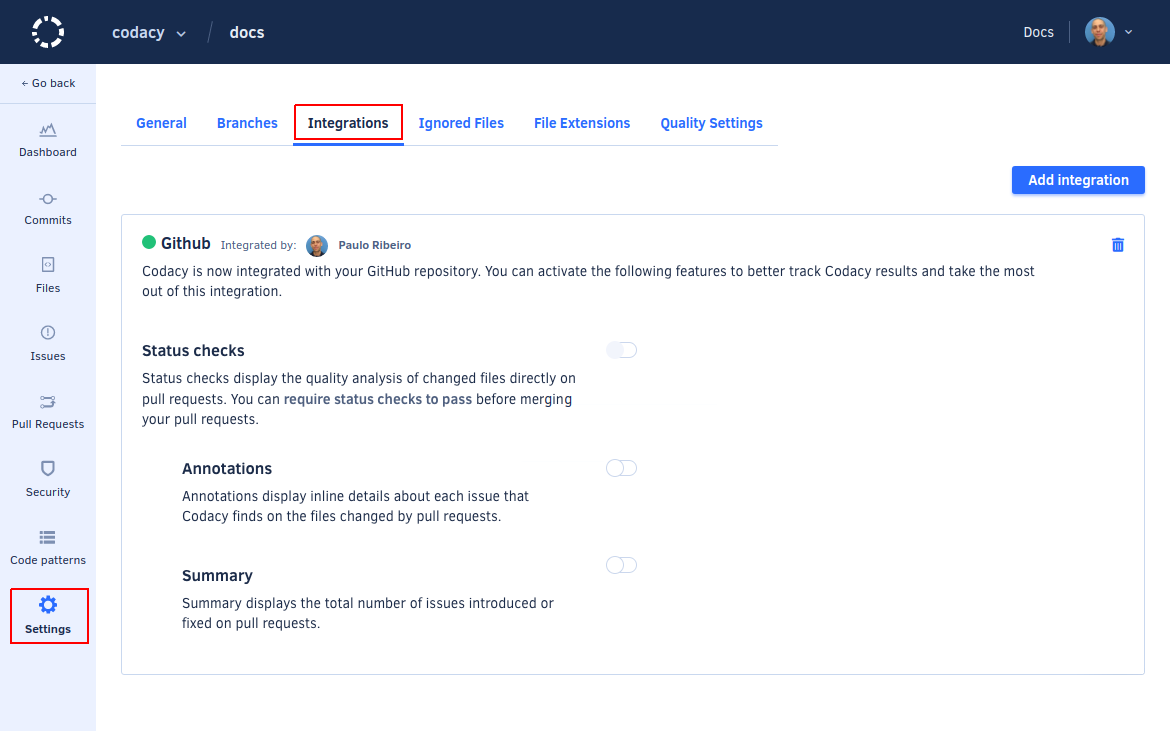
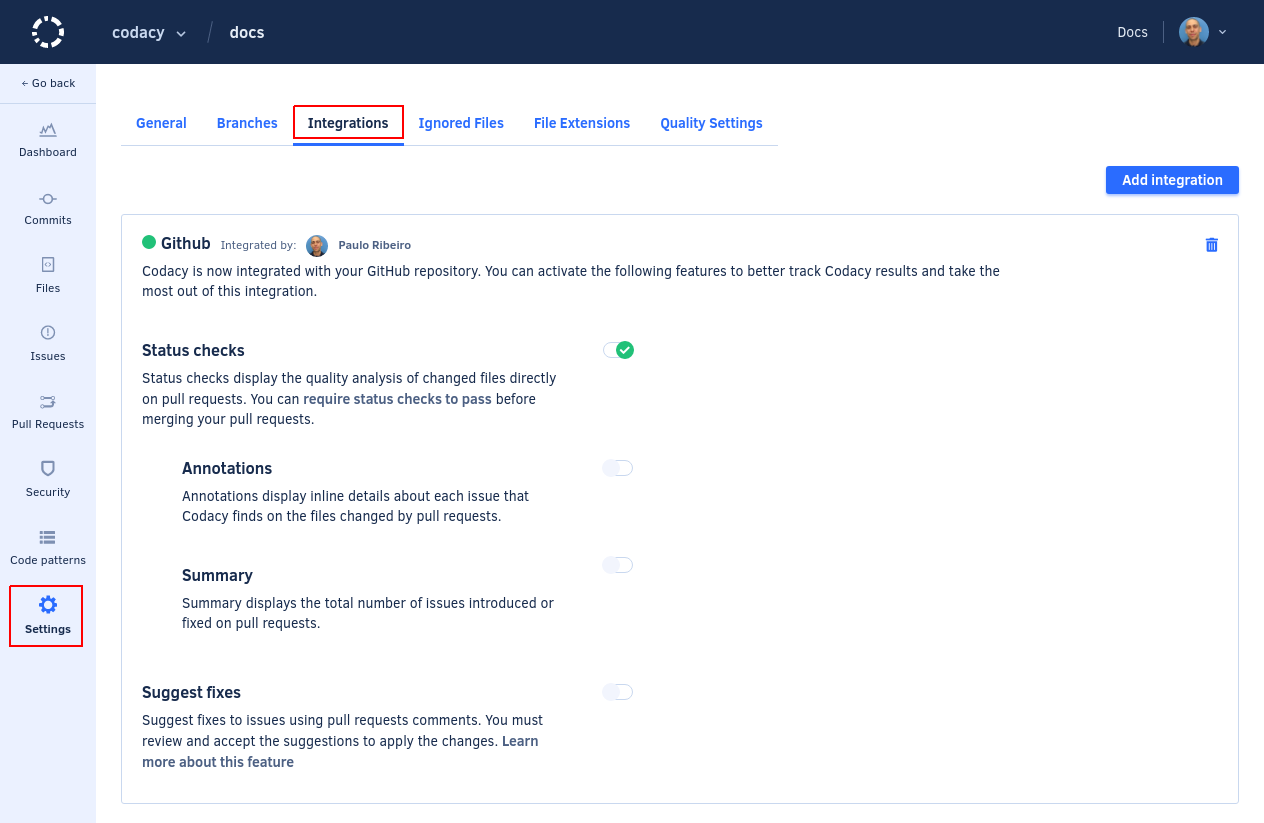
feature: Add Suggest fixes option in GitHub integration CY-3583 (#442)
* feature: Add Suggest fixes option in GitHub integration

* feature: Add anchor link for Suggest fixes

* wip: Add TODO as reminder to update main screenshot

* Update docs/repositories-configure/integrations/github-integration.md

* wip: Add placeholder for screenshot of comment with suggestion

* edit: Reword Suggest fixes limitations

Include plans to support more tools and mention GitHub limitation
that prevents Codacy from being the author of the comments with
suggestions.

* clean: Remove reference to languages supported by ESLint

* feature: Link to GitHub documentation on how to apply suggestions

* feature: Update GitHub integration configuration UI

* feature: Add screenshot of example suggested fix

* feature: Add link to list of rules from ESLint

* feature: Mention suggest features for ESLint on supported tools list

* style: Use table column to enumerate tools supporting Suggest fixes

diff --git a/docs/getting-started/supported-languages-and-tools.md b/docs/getting-started/supported-languages-and-tools.md
@@ -22,6 +22,7 @@ The table below lists all programming languages currently supported by Codacy an
     <tr>
       <th>Language</th>
       <th>Static Analysis</th>
+      <th><a style="color: white;" href="#suggest-fixes">Suggest fixes</a></th>
       <th>Duplication</th>
       <th>Complexity</th>
     </tr>
@@ -30,6 +31,7 @@ The table below lists all programming languages currently supported by Codacy an
     <tr>
       <td>Apex</td>
       <td><a href="https://pmd.github.io/">PMD</a></td>
+      <td></td>
       <td>-</td>
       <td>-</td>
     </tr>
@@ -38,12 +40,14 @@ The table below lists all programming languages currently supported by Codacy an
       <td><a href="https://clang.llvm.org/extra/clang-tidy/">Clang-Tidy</a><a href="#client-side"><sup>*</sup></a>,
           <a href="http://cppcheck.sourceforge.net/">Cppcheck</a>,
           <a href="https://dwheeler.com/flawfinder/">Flawfinder</a></td>
+      <td></td>
       <td><a href="https://pmd.github.io/pmd/pmd_userdocs_cpd.html">PMD CPD</a></td>
       <td>-</td>
     </tr>
     <tr>
       <td>C#</td>
-      <td><a href="https://github.com/SonarSource/sonar-dotnet">SonarC#</a></td>
+      <td><a href="https://github.com/SonarSource/sonar-dotnet">Sonar C#</a></td>
+      <td></td>
       <td><a href="https://pmd.github.io/pmd/pmd_userdocs_cpd.html">PMD CPD</a></td>
       <td><a href="https://github.com/SonarSource/sonar-dotnet">SonarC#</a></td>
     </tr>
@@ -52,18 +56,21 @@ The table below lists all programming languages currently supported by Codacy an
       <td><a href="https://clang.llvm.org/extra/clang-tidy/">Clang-Tidy</a><a href="#client-side"><sup>*</sup></a>,
           <a href="http://cppcheck.sourceforge.net/">Cppcheck</a>,
           <a href="https://dwheeler.com/flawfinder/">Flawfinder</a></td>
+      <td></td>
       <td><a href="https://pmd.github.io/pmd/pmd_userdocs_cpd.html">PMD CPD</a></td>
       <td>-</td>
     </tr>
     <tr>
       <td>CoffeeScript</td>
       <td><a href="http://www.coffeelint.org/">Coffeelint</a></td>
+      <td></td>
       <td>-</td>
       <td>-</td>
     </tr>
     <tr>
       <td>Crystal</td>
       <td><a href="https://github.com/crystal-ameba/ameba">Ameba</a></td>
+      <td></td>
       <td>-</td>
       <td>-</td>
     </tr>
@@ -71,18 +78,21 @@ The table below lists all programming languages currently supported by Codacy an
       <td>CSS</td>
       <td><a href="http://csslint.net/">CSSLint</a>,
           <a href="https://stylelint.io/">Stylelint</a></td>
+      <td></td>
       <td>-</td>
       <td>-</td>
     </tr>
     <tr>
       <td>Dockerfile</td>
       <td><a href="https://github.com/hadolint/hadolint">Hadolint</a></td>
+      <td></td>
       <td>-</td>
       <td>-</td>
     </tr>
     <tr>
       <td>Elixir</td>
       <td><a href="https://github.com/rrrene/credo">Credo</a></td>
+      <td></td>
       <td>-</td>
       <td>-</td>
     </tr>
@@ -92,14 +102,15 @@ The table below lists all programming languages currently supported by Codacy an
           <a href="https://github.com/tsenart/deadcode">deadcode</a><a href="#client-side"><sup>*</sup></a>,
           <a href="https://github.com/securego/gosec">Gosec</a><a href="#client-side"><sup>*</sup></a>,
           <a href="https://github.com/mgechev/revive">Revive</a>,
-          <a href="https://staticcheck.io/">Staticcheck</a><a href="#client-side"><sup>*</sup></a>
-      </td>
+          <a href="https://staticcheck.io/">Staticcheck</a><a href="#client-side"><sup>*</sup></a></td>
+      <td></td>
       <td><a href="https://pmd.github.io/pmd/pmd_userdocs_cpd.html">PMD CPD</a></td>
       <td><a href="https://github.com/fzipp/gocyclo">Gocyclo</a></td>
     </tr>
     <tr>
       <td>Groovy</td>
       <td><a href="https://codenarc.github.io/CodeNarc/">CodeNarc</a></td>
+      <td></td>
       <td>-</td>
       <td>-</td>
     </tr>
@@ -108,6 +119,7 @@ The table below lists all programming languages currently supported by Codacy an
       <td><a href="https://checkstyle.sourceforge.io/">Checkstyle</a>,
           <a href="https://pmd.github.io/">PMD</a>,
           <a href="https://spotbugs.github.io/">SpotBugs</a><a href="#client-side"><sup>*</sup></a></td>
+      <td></td>
       <td><a href="https://pmd.github.io/pmd/pmd_userdocs_cpd.html">PMD CPD</a></td>
       <td><a href="https://pmd.github.io/">PMD</a></td>
     </tr>
@@ -116,42 +128,49 @@ The table below lists all programming languages currently supported by Codacy an
       <td><a href="https://eslint.org/">ESLint</a>,
           <a href="https://jshint.com/">JSHint</a>,
           <a href="https://pmd.github.io/">PMD</a></td>
+      <td><a href="https://eslint.org/docs/rules/">ESLint</a> <a href="#suggest-fixes">🔧</a></td>
       <td><a href="https://pmd.github.io/pmd/pmd_userdocs_cpd.html">PMD CPD</a></td>
       <td><a href="https://eslint.org/">ESLint</a></td>
     </tr>
     <tr>
       <td>JSON</td>
       <td><a href="https://github.com/codacy/codacy-jackson-linter">Jackson Linter</a></td>
+      <td></td>
       <td>-</td>
       <td>-</td>
     </tr>
     <tr>
       <td>JSP</td>
       <td><a href="https://pmd.github.io/">PMD</a></td>
+      <td></td>
       <td>-</td>
       <td>-</td>
     </tr>
     <tr>
       <td>Kotlin</td>
       <td><a href="https://github.com/detekt/detekt">Detekt</a></td>
+      <td></td>
       <td><a href="https://github.com/kucherenko/jscpd">jscpd</a></td>
       <td><a href="https://github.com/detekt/detekt">Detekt</a></td>
     </tr>
     <tr>
       <td>Less</td>
       <td><a href="https://stylelint.io/">Stylelint</a></td>
+      <td></td>
       <td>-</td>
       <td>-</td>
     </tr>
     <tr>
       <td>Markdown</td>
       <td><a href="https://github.com/remarkjs/remark-lint">RemarkLint</a></td>
+      <td></td>
       <td>-</td>
       <td>-</td>
     </tr>
     <tr>
       <td>Objective-C</td>
       <td><a href="http://fauxpasapp.com/">Faux Pas</a><a href="#client-side"><sup>*</sup></a></td>
+      <td></td>
       <td>-</td>
       <td>-</td>
     </tr>
@@ -159,24 +178,28 @@ The table below lists all programming languages currently supported by Codacy an
       <td>PHP</td>
       <td><a href="https://github.com/squizlabs/PHP_CodeSniffer">PHP Code Sniffer</a>,
           <a href="https://phpmd.org/">PHP Mess Detector</a></td>
+      <td></td>
       <td><a href="https://github.com/sebastianbergmann/phpcpd">PHPCPD</a></td>
       <td><a href="https://github.com/pdepend/pdepend">PHP Depend</a></td>
     </tr>
     <tr>
       <td>PL/SQL</td>
       <td><a href="https://pmd.github.io/">PMD</a></td>
+      <td></td>
       <td>-</td>
       <td>-</td>
     </tr>
     <tr>
       <td>PostgreSQL</td>
       <td><a href="https://github.com/purcell/sqlint">SQLint</a></td>
+      <td></td>
       <td>-</td>
       <td>-</td>
     </tr>
     <tr>
       <td>PowerShell</td>
       <td><a href="https://github.com/PowerShell/PSScriptAnalyzer">PSScriptAnalyser</a></td>
+      <td></td>
       <td>-</td>
       <td>-</td>
     </tr>
@@ -186,6 +209,7 @@ The table below lists all programming languages currently supported by Codacy an
       <td><a href="https://github.com/PyCQA/bandit">Bandit</a>,
           <a href="https://github.com/landscapeio/prospector2">Prospector</a>,
           <a href="https://www.pylint.org/">Pylint</a></td>
+      <td></td>
       <td><a href="https://pmd.github.io/pmd/pmd_userdocs_cpd.html">PMD CPD</a></td>
       <td><a href="https://github.com/rubik/radon">Radon</a></td>
     </tr>
@@ -195,12 +219,14 @@ The table below lists all programming languages currently supported by Codacy an
       <td><a href="https://brakemanscanner.org/">Brakeman</a>,
           <a href="https://github.com/rubysec/bundler-audit">Bundler Audit</a>,
           <a href="https://github.com/rubocop-hq/rubocop">Rubocop</a></td>
+      <td></td>
       <td><a href="https://github.com/seattlerb/flay">Flay</a></td>
       <td><a href="https://github.com/rubocop-hq/rubocop">Rubocop</a></td>
     </tr>
     <tr>
       <td>Sass</td>
       <td><a href="https://stylelint.io/">Stylelint</a>
+      <td></td>
       <td>-</td>
       <td>-</td>
     </tr>
@@ -210,6 +236,7 @@ The table below lists all programming languages currently supported by Codacy an
       <td><a href="https://scalameta.org/">Scalameta</a>,
           <a href="http://www.scalastyle.org/">Scalastyle</a>,
           <a href="https://spotbugs.github.io/">SpotBugs</a><a href="#client-side"><sup>*</sup></a></td>
+      <td></td>
       <td><a href="https://pmd.github.io/pmd/pmd_userdocs_cpd.html">PMD CPD</a></td>
       <td><a href="http://www.scalastyle.org/">Scalastyle</a>,
           <a href="https://github.com/scala/scala">Scala 2 compiler and standard library</a></td>
@@ -217,6 +244,7 @@ The table below lists all programming languages currently supported by Codacy an
     <tr>
       <td>Shell</td>
       <td><a href="https://www.shellcheck.net/">ShellCheck</a></td>
+      <td></td>
       <td>-</td>
       <td>-</td>
     </tr>
@@ -224,12 +252,14 @@ The table below lists all programming languages currently supported by Codacy an
       <td>Swift </td>
       <td><a href="https://github.com/realm/SwiftLint">SwiftLint</a>,
           <a href="https://github.com/sleekbyte/tailor">Tailor</a></td>
+      <td></td>
       <td><a href="https://pmd.github.io/pmd/pmd_userdocs_cpd.html">PMD CPD</a></td>
       <td>-</td>
     </tr>
     <tr>
       <td>Transact-SQL</td>
       <td><a href="https://github.com/tsqllint/tsqllint/">TSQLLint</a></td>
+      <td></td>
       <td>-</td>
       <td>-</td>
     </tr>
@@ -237,36 +267,42 @@ The table below lists all programming languages currently supported by Codacy an
       <td>TypeScript</td>
       <td><a href="https://eslint.org/">ESLint</a>,
           <a href="https://palantir.github.io/tslint/">TSLint</a></td>
+      <td><a href="https://eslint.org/docs/rules/">ESLint</a> <a href="#suggest-fixes">🔧</a></td>
       <td><a href="https://github.com/kucherenko/jscpd">jscpd</a></td>
       <td><a href="https://eslint.org/">ESLint</a></td>
     </tr>
     <tr>
       <td>Velocity</td>
       <td><a href="https://pmd.github.io/">PMD</a></td>
+      <td></td>
       <td>-</td>
       <td>-</td>
     </tr>
     <tr>
       <td>Visual Basic</td>
       <td><a href="https://github.com/SonarSource/sonar-dotnet">SonarVB</a></td>
+      <td></td>
       <td>-</td>
       <td>-</td>
     </tr>
     <tr>
       <td>Visualforce</td>
       <td><a href="https://pmd.github.io/">PMD</a></td>
+      <td></td>
       <td>-</td>
       <td>-</td>
     </tr>
     <tr>
       <td>XML</td>
       <td><a href="https://pmd.github.io/">PMD</a></td>
+      <td></td>
       <td>-</td>
       <td>-</td>
     </tr>
     <tr>
       <td>XSL</td>
       <td><a href="https://pmd.github.io/">PMD</a></td>
+      <td></td>
       <td>-</td>
       <td>-</td>
     </tr>
@@ -275,6 +311,9 @@ The table below lists all programming languages currently supported by Codacy an
 
 <sup>*</sup>: Supported as a [client-side tool](../related-tools/local-analysis/client-side-tools.md).
 {: id="client-side"}
+
+🔧: Supports [suggesting fixes](../repositories-configure/integrations/github-integration.md#suggest-fixes) for identified issues.
+{: id="suggest-fixes"}
 
 Codacy also uses [cloc](https://github.com/kentcdodds/cloc) to calculate the source lines of code for all supported languages.
 

diff --git a/docs/repositories-configure/integrations/github-integration.md b/docs/repositories-configure/integrations/github-integration.md
@@ -48,3 +48,18 @@ Adds annotations on the lines of the pull request where Codacy finds new issues.
 Shows an overall view of the changes in the pull request, including new issues and metrics such as complexity and duplication. To enable this option, you must enable **Status checks** first.
 
 ![Pull request summary on GitHub](images/github-integration-pr-summary.png)
+
+### Suggest fixes
+
+Adds comments on the lines of the pull request where Codacy finds new issues with suggestions on how to fix the issues. Codacy doesn't apply any changes automatically. To apply the changes, [manually review and accept the suggestions](https://docs.github.com/en/github/collaborating-with-issues-and-pull-requests/incorporating-feedback-in-your-pull-request#applying-suggested-changes).
+
+![Comment suggesting a fix on GitHub](images/github-integration-suggest-fixes.png)
+
+!!! note
+    This feature is in early access and has the following limitations for now:
+
+    -   The only supported Git providers are GitHub Cloud and GitHub Enterprise.
+    -   The only tool that suggests fixes is [ESLint](https://eslint.org/docs/rules/). However, we're planning to support suggestions from more tools.
+    -   Because of a limitation from GitHub, the author of the comments is the user that enabled the GitHub integration and not Codacy.
+
+    📢 [Let us know](mailto:support@codacy.com?subject=Feedback on Suggest fixes) what you think about this feature!
